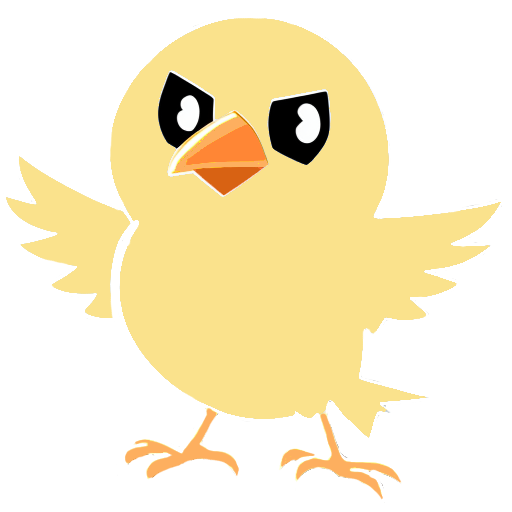
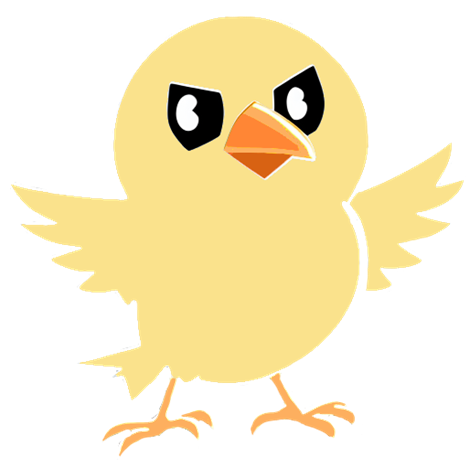
merge
- changed bird header image to be facing right like the other images
- changed width of bird and monkey to be closer to momo size
- adjusted coin locations on level 1
- merged kevin and ruhi changes

diff --git a/momotaro/game_templates/pet_player.py b/momotaro/game_templates/pet_player.py
@@ -68,20 +68,20 @@ class Pet:
         self.right_bird_mvmnt_frames = None
         self.left_bird_mvmnt_frames = None
 
-        self.left_flying = pygame.transform.scale(pygame.image.load("images/player2/flying_left.png").convert_alpha(),(40, 70))
-        self.left_flapping = pygame.transform.scale(pygame.image.load("images/player2/flapping_left.png").convert_alpha(),(40, 70))
+        self.left_flying = pygame.transform.scale(pygame.image.load("images/player2/flying_left.png").convert_alpha(),(45, 70))
+        self.left_flapping = pygame.transform.scale(pygame.image.load("images/player2/flapping_left.png").convert_alpha(),(45, 70))
 
-        self.right_flying = pygame.transform.scale(pygame.image.load("images/player2/flying_right.png").convert_alpha(),(40, 70))
-        self.right_flapping = pygame.transform.scale(pygame.image.load("images/player2/flapping_right.png").convert_alpha(), (40, 70))
+        self.right_flying = pygame.transform.scale(pygame.image.load("images/player2/flying_right.png").convert_alpha(),(45, 70))
+        self.right_flapping = pygame.transform.scale(pygame.image.load("images/player2/flapping_right.png").convert_alpha(), (45, 70))
 
 
         self.right_bird_mvmnt_frames = [
-            pygame.transform.scale(pygame.image.load("images/player2/walking_right_1.png").convert_alpha(), (30, 60)),
-            pygame.transform.scale(pygame.image.load("images/player2/walking_right_2.png").convert_alpha(), (40, 60))]
+            pygame.transform.scale(pygame.image.load("images/player2/walking_right_1.png").convert_alpha(), (35, 60)),
+            pygame.transform.scale(pygame.image.load("images/player2/walking_right_2.png").convert_alpha(), (45, 60))]
 
         self.left_bird_mvmnt_frames = [
-            pygame.transform.scale(pygame.image.load("images/player2/walking_left_1.png").convert_alpha(), (30, 60)),
-            pygame.transform.scale(pygame.image.load("images/player2/walking_left_2.png").convert_alpha(), (35, 60))]
+            pygame.transform.scale(pygame.image.load("images/player2/walking_left_1.png").convert_alpha(), (35, 60)),
+            pygame.transform.scale(pygame.image.load("images/player2/walking_left_2.png").convert_alpha(), (40, 60))]
 
         self.bird_idle_image = self.right_bird_mvmnt_frames[0]
 
@@ -89,7 +89,7 @@ class Pet:
         self.bird_hurt_right_image = pygame.transform.rotate(self.left_bird_mvmnt_frames[0], 45)
 
         self.bird_death_image = pygame.transform.scale(
-            pygame.image.load("images/player2/bird_death.png").convert_alpha(), (50, 60))
+            pygame.image.load("images/player2/bird_death.png").convert_alpha(), (55, 60))
         ##################
 
         # DOG IMAGES -------------------
@@ -134,33 +134,33 @@ class Pet:
 
         # MONKEY IMAGES ----------------------------------
         self.right_monkey_mvmnt_frames = [
-            pygame.transform.scale(pygame.image.load("images/player2/monkey_walk_right_1.png").convert_alpha(), (40, 61)),
-            pygame.transform.scale(pygame.image.load("images/player2/monkey_walk_right_2.png").convert_alpha(), (40, 61))]
+            pygame.transform.scale(pygame.image.load("images/player2/monkey_walk_right_1.png").convert_alpha(), (45, 66)),
+            pygame.transform.scale(pygame.image.load("images/player2/monkey_walk_right_2.png").convert_alpha(), (45, 66))]
 
         self.left_monkey_mvmnt_frames = [
-            pygame.transform.scale(pygame.image.load("images/player2/monkey_walk_left_1.png").convert_alpha(),(40, 61)),
-            pygame.transform.scale(pygame.image.load("images/player2/monkey_walk_left_2.png").convert_alpha(), (40, 61))]
+            pygame.transform.scale(pygame.image.load("images/player2/monkey_walk_left_1.png").convert_alpha(),(45, 66)),
+            pygame.transform.scale(pygame.image.load("images/player2/monkey_walk_left_2.png").convert_alpha(), (45, 66))]
 
         self.monkey_idle_image_left = pygame.transform.scale(
-            pygame.image.load("images/player2/monkey_idle_left.png").convert_alpha(), (40, 61))
+            pygame.image.load("images/player2/monkey_idle_left.png").convert_alpha(), (45, 66))
 
         self.monkey_idle_image_right = pygame.transform.scale(
-            pygame.image.load("images/player2/monkey_idle_right.png").convert_alpha(), (40, 61))
+            pygame.image.load("images/player2/monkey_idle_right.png").convert_alpha(), (45, 66))
 
         self.monkey_death_image = pygame.transform.scale(
-            pygame.image.load("images/player2/monkey_death.png").convert_alpha(), (61, 40))
+            pygame.image.load("images/player2/monkey_death.png").convert_alpha(), (65, 45))
 
         self.monkey_hurt_left_image = pygame.transform.rotate(self.right_monkey_mvmnt_frames[0], 45)
 
         self.monkey_hurt_right_image = pygame.transform.rotate(self.left_monkey_mvmnt_frames[0], 45)
 
         self.right_monkey_throw_frames = [
-            pygame.transform.scale(pygame.image.load("images/player2/monkey_throw_right_1.png").convert_alpha(), (40, 61)),
-            pygame.transform.scale(pygame.image.load("images/player2/monkey_throw_right_2.png").convert_alpha(), (40, 61))]
+            pygame.transform.scale(pygame.image.load("images/player2/monkey_throw_right_1.png").convert_alpha(), (45, 66)),
+            pygame.transform.scale(pygame.image.load("images/player2/monkey_throw_right_2.png").convert_alpha(), (45, 65))]
 
         self.left_monkey_throw_frames = [
-            pygame.transform.scale(pygame.image.load("images/player2/monkey_throw_left_1.png").convert_alpha(), (40, 61)),
-            pygame.transform.scale(pygame.image.load("images/player2/monkey_throw_left_2.png").convert_alpha(), (40, 61))]
+            pygame.transform.scale(pygame.image.load("images/player2/monkey_throw_left_1.png").convert_alpha(), (45, 65)),
+            pygame.transform.scale(pygame.image.load("images/player2/monkey_throw_left_2.png").convert_alpha(), (45, 65))]
         #####################
 
         self.cloud_image = pygame.transform.scale(

diff --git a/momotaro/scenes/levels/level_2.py b/momotaro/scenes/levels/level_2.py
@@ -26,25 +26,37 @@ def create_level(my_toolbox):
     level2.add_platform((300, 1080 - 70), (700, 70), platform_type="water")    # water section 1 (bottom)
     level2.add_platform((1280, 1080 - 70), (750, 70), platform_type="water")   # water section 2 (bottom)
     level2.add_platform((4600, 1080 - 71), (430, 70), platform_type="water")   # water section 3 (bottom)
-    level2.add_platform((2400, 1080 - 71), (1150, 70), platform_type="water")
+    level2.add_platform((2500, 1080 - 71), (1150, 70), platform_type="water")
+
+    level2.add_spikes((2300, 1080 - 70), (150, 100), vase_position=(2800 + 17, 485), duration=300)
+    level2.add_platform((2800, 550), (70, 50), facing_direction="up")
 
     level2.add_platform((350, 340 + 20), (650, 70), platform_type="water")          # water section 1 (top)
     level2.add_platform((1280, 410 + 20), (750, 70), platform_type="water")         # water section 2 (top)
 
     # add moving platforms throughout
     level2.add_moving_platform((400, 940), (300, 50), 4, (600, 940), facing_direction="up")    # first water section
-    level2.add_moving_platform((1330, 900), (200, 50), 5, (1430, 900), facing_direction="up")  # second water section
-    level2.add_moving_platform((1680, 900), (200, 50), 5, (1780, 900), facing_direction="up")  # second water section
+    '''level2.add_moving_platform((1330, 900), (200, 50), 5, (1430, 900), facing_direction="up")  # second water section
+    level2.add_moving_platform((1680, 900), (200, 50), 5, (1780, 900), facing_direction="up") '''
+
+    # second water section
 
     level2.add_moving_platform((400, 320), (200, 50), 4, (750, 320), facing_direction="up")    # first water section (top)
 
     #level2.add_moving_platform((2450, 900), (200, 50), 3, (2900, 545), facing_direction="up")  # before tori gates
     #level2.add_moving_platform((2000, 900), (200, 50), 2, (2000, 545), facing_direction="up")
-    level2.add_moving_platform((2400, 545), (300, 50), 2, (2400, 700), facing_direction="up")
-    level2.add_moving_platform((2850, 500), (300, 50), 2, (2850, 800), facing_direction="up")
-    level2.add_moving_platform((3300, 445), (300, 50), 2, (3300, 900), facing_direction="up")
+    level2.add_moving_platform((2500, 545), (250, 50), 2, (2500, 700), facing_direction="up")
+    level2.add_moving_platform((2900, 500), (250, 50), 2, (2900, 800), facing_direction="up")
+    level2.add_moving_platform((3300, 445), (250, 50), 2, (3300, 900), facing_direction="up")
 
     # add regular platforms
+    level2.add_platform((1450, 480), (100, 400), facing_direction="down") #bird parkour
+    level2.add_platform((1750, 480), (100, 100), facing_direction="down")
+
+    level2.add_platform((1450, 950), (100, 450), facing_direction="up")  # bird parkour
+    level2.add_platform((1750, 650), (100, 850), facing_direction="up")
+
+
     level2.add_platform((70, 340), (280, 140), facing_direction="up")       # first section (top)
     level2.add_platform((350, 410), (370, 70),  facing_direction=None)
     level2.add_platform((720, 410), (280, 210),  facing_direction=None)
@@ -60,13 +72,13 @@ def create_level(my_toolbox):
     #level2.add_platform((4200, 600), (200, 50), facing_direction="up")      # middle with coin
     level2.add_platform((4600, 500), (430, 160), facing_direction="up")     # final chunk with fence
 
-    level2.add_platform((4715, 900), (200, 50), facing_direction="up")      # low platform with final coin
+    level2.add_platform((4750, 900), (200, 50), facing_direction="up")      # low platform with final coin
 
     # add button/gate obstacles
     level2.add_obstacle(600, 580, "button", fence_initial=(1075, 140),  fence_final=(1075, -60), fence_dimensions=(150, 400))     # first top gate
     level2.add_obstacle(1200, 330, "button", fence_initial=(2105, 210), fence_final=(2105, -60), fence_dimensions=(150, 400))     # second top gate
-    level2.add_obstacle(4900, 500, "button", fence_initial=(3775, 200), fence_final=(3775, -60), fence_dimensions=(150, 400))     # third top gate
-    level2.add_obstacle(3950, 1000, "button", fence_initial=(4675, 300), fence_final=(4675, -60), fence_dimensions=(150, 400))    # fourth top gate
+    level2.add_obstacle(4850, 495, "dog_button", fence_initial=(3775, 200), fence_final=(3775, -60), fence_dimensions=(150, 400),dog_y=300)     # third top gate
+    level2.add_obstacle(3950, 1000, "button", fence_initial=(4675, 822), fence_final=(4675, 320), fence_dimensions=(150, 400))    # fourth top gate
     level2.add_obstacle(1210, 1000, "button", fence_initial=(2105, 778), fence_final=(2105, 320), fence_dimensions=(150, 465))    # first bottom gate
     level2.add_obstacle(4100, 1000, "button", fence_initial=(4250, 778), fence_final=(4250, 330), fence_dimensions=(150, 465))    # second bottom gate
 
@@ -76,15 +88,15 @@ def create_level(my_toolbox):
     level2.add_demon([3900, 350], (300, 100))
 
     # add tori gate obstacle
-    level2.add_obstacle(3950, 350, "torigate", gate_num=1)
-    level2.add_obstacle(4100, 350, "torigate", gate_num=2)
+    level2.add_obstacle(3950, 350 - 50, "torigate", gate_num=1)
+    level2.add_obstacle(4100, 350 - 50, "torigate", gate_num=2)
 
     # add coins
-    level2.add_obstacle(3000, 350, "coin")
-    level2.add_obstacle(2550, 400, "coin")
-    level2.add_obstacle(3450, 400, "coin")
+    level2.add_obstacle(2350 - 30, 900, "coin")
+    level2.add_obstacle(4800, 800, "coin")
+    level2.add_obstacle(1930, 300, "coin")
 
     momotaro = momotaro_player.Momotaro([300, 200])
-    pet = pet_player.Pet([200, 500])
+    pet = pet_player.Pet([200, 800])
 
     return level2, momotaro, pet

diff --git a/momotaro/scenes/levels/level_3.py b/momotaro/scenes/levels/level_3.py
@@ -10,17 +10,16 @@ def create_level(my_toolbox):
     level3.add_platform(position=(0, 0), dimensions=(71, 1080), facing_direction="right")        # left wall
     level3.add_platform((5100 - 70, 0), (70, 1080), facing_direction="left")                     # right wall
     level3.add_platform((0, 0), (5100, 140), facing_direction="down")                            # top wall
-    level3.add_platform((0, 1080 - 80), (300, 80))
-    level3.add_platform((500, 1080 - 80), (150, 80))                                            # bottom wall section 1
-    level3.add_platform((850, 1080 - 80), (150, 80))
-    #level3.add_platform((1000, 1080 - 69), (200, 70))                                           # bottom wall section 3
-    level3.add_platform((1200, 1080 - 80), (2500, 80))                                           # bottom wall section 3
-    level3.add_platform((4300, 1080 - 80), (750, 80))                                           # bottom wall section 4
+    level3.add_platform((0, 1000), (300, 85), facing_direction="up", corners=True)
+    level3.add_platform((500, 1000), (150, 85), facing_direction="up", corners=True)                                            # bottom wall section 1
+    level3.add_platform((850, 1000), (150, 85), facing_direction="up", corners=True)
+    level3.add_platform((1200, 1080 - 80), (2500, 85), facing_direction="up", corners=True)                                           # bottom wall section 3
+    level3.add_platform((4300, 1080 - 80), (750, 85), facing_direction="up", corners=True)                                           # bottom wall section 4
     # 3030
 
     # fix the corners
-    level3.add_platform((-10, 70), (70, 70), facing_direction=None)
-    level3.add_platform((5040, 70), (70, 70), facing_direction=None)
+    level3.add_platform((-10, 85), (70, 70), facing_direction=None)
+    level3.add_platform((5040, 85), (70, 70), facing_direction=None)
     level3.add_platform((-10, 1080 - 70), (70, 70), facing_direction=None)
     level3.add_platform((5040, 1080 - 70), (70, 70), facing_direction=None)
 
@@ -87,19 +86,19 @@ def create_level(my_toolbox):
     level3.add_platform((3700, 444), (500, 25), facing_direction=None)
 
     # add button/gate obstacles
-    level3.add_obstacle(600, 1000, "button", fence_initial=(700, 150),  fence_final=(700, 0), fence_dimensions=(100, 300))
-    level3.add_obstacle(1300, 1000, "button", fence_initial=(1150, 600),  fence_final=(1150, 450), fence_dimensions=(100, 300))
-    level3.add_obstacle(950, 1000, "button", fence_initial=(1750, 150),  fence_final=(1750, 0), fence_dimensions=(100, 300))# first top gate
-    level3.add_obstacle(2650, 400, "button", fence_initial=(2800 - 30, 925), fence_final=(2800 - 30, 700),
+    level3.add_obstacle(600, 992, "button", fence_initial=(700, 150),  fence_final=(700, 0), fence_dimensions=(100, 300))
+    level3.add_obstacle(1300, 992, "button", fence_initial=(1150, 600),  fence_final=(1150, 450), fence_dimensions=(100, 300))
+    level3.add_obstacle(950, 992, "button", fence_initial=(1750, 150),  fence_final=(1750, 0), fence_dimensions=(100, 300))# first top gate
+    level3.add_obstacle(2650, 395, "button", fence_initial=(2800 - 30, 925), fence_final=(2800 - 30, 700),
                         fence_dimensions=(70, 300*7/10))
-    level3.add_obstacle((2750 + 500 + 200), 400, "button", fence_initial=(3850, 850), fence_final=(3850, 1000),
+    level3.add_obstacle((2750 + 500 + 200), 395, "button", fence_initial=(3850, 850), fence_final=(3850, 1000),
                         fence_dimensions=(100, 300))
-    level3.add_obstacle(3700 + 700, 400, "button", fence_initial=(4350, 900),
+    level3.add_obstacle(3700 + 700, 395, "button", fence_initial=(4350, 900),
                         fence_final=(4350, 750),
                         fence_dimensions=(100, 300))
         # second bottom gate
 
-    level3.add_spikes((2700, 300), (600, 100), vase_position=(2500, 515), duration=200)
+    level3.add_spikes((2700, 300), (600, 100), vase_position=(2500, 515), duration=500)
 
     level3.add_obstacle(3400, 670, 'dog_button', fence_initial=(3300, 290), fence_final=(3300, 590), fence_dimensions=(100, 300), dog_y=550)
 

diff --git a/momotaro/scenes/levels/level_1.py b/momotaro/scenes/levels/level_1.py
@@ -9,6 +9,7 @@ def create_level(my_toolbox):
     level1.load_stone_imgs()
 
     # add tutorial text
+    level1.add_tutorial_text(550, 200, 0, 900, 450, 1080, (100, 100), "Press ESC to view menu options and controls.")
     level1.add_tutorial_text(550,500,0,900,450,1080,(100,100),"Player 1: Use W, A, and D to move around and jump.", font_size=30)
     level1.add_tutorial_text(580,550,0,900,450,1080,(100,100),"Player 2: Use the arrow keys to move around and jump.", font_size=30)
 
@@ -31,7 +32,7 @@ def create_level(my_toolbox):
     # add platforms
     level1.add_platform((400, 800), (300, 50), facing_direction="up")  # platform 1 for coin 1
     level1.add_platform((900, 690), (300, 50), facing_direction="up")  # platform 2 for coin 1
-    level1.add_obstacle(1080, 600, "coin")  # coin 1
+    level1.add_obstacle(1004, 525, "coin")  # coin 1
 
     # gate leading to after the first coin
     level1.add_obstacle(1265, 1000, 'button', fence_initial=(1458, 780), fence_final=(1458, 540), fence_dimensions=(200, 500))
@@ -90,14 +91,14 @@ def create_level(my_toolbox):
     level1.add_tutorial_text(3600, 200, 2600, 4800, 0,400,(100,100), "Demons will charge after you if you get too close.", font_size=25)
     level1.add_tutorial_text(3600, 250, 2600, 4800, 0,400,(100,100), "Player 1 press and hold R to charge up an attack.", font_size=25)
     level1.add_tutorial_text(3600, 300, 2600, 4800, 0,400,(100,100), "The longer you hold, the stronger and longer your attack will be.", font_size=25)
-    level1.add_obstacle(2460, 280, 'coin')
+    level1.add_obstacle(2460, 235, 'coin')
 
     # tutorial text above button to switch cameras
     level1.add_tutorial_text(2500, 200, 2400, 2900, 0,400,(100,100), "Press C to swap the camera focus between players", font_size=25)
 
     # add third coin and oni behind the rightmost gate
     level1.add_demon([4630, 200], (450, 450))
-    level1.add_obstacle(4900, 280, 'coin')
+    level1.add_obstacle(4900, 235, 'coin')
 
 
     # add end goal torigate

diff --git a/momotaro/drivers/game_manager.py b/momotaro/drivers/game_manager.py
@@ -117,7 +117,7 @@ class GameManager:
 
             # Checking for if the game is over/failed (Momo dead or out of bounds)
             if self.momotaro.health <= 0 or self.momotaro.position[1] > 4000 or self.pet.health <= 0:
-                pygame.mixer.pause()
+                # pygame.mixer.pause()
                 self.lose_sound.play()
 
                 # only momotaro has different death animations, when the bird dies, use momotaro's oni death
@@ -382,8 +382,10 @@ class GameManager:
                     platform.draw_platform(self.image)
                 for platform in self.level.moving_platform_list:
                     platform.draw_platform(self.image)
+                # Draw text
                 for text in self.level.tutorial_text_list:
-                    text.draw(self.image, self.momotaro.position[0])
+                    text.draw(self.image, self.momotaro.position[0], self.momotaro.position[1],
+                              self.pet.position[0], self.pet.position[1])
 
             # Draw demons
                 for demon in self.level.demon_list:

diff --git a/momotaro/game_templates/level.py b/momotaro/game_templates/level.py
@@ -410,7 +410,7 @@ class Header:
         self.player_1_txt = pygame.transform.scale(self.player_1_txt, (200, 40))
         self.player_2_txt = pygame.transform.scale(self.player_2_txt, (200, 40))
         self.momo = pygame.transform.scale(self.momo, (50, 80))
-        self.bird = pygame.transform.scale(self.bird, (50, 80))
+        self.bird = pygame.transform.scale(self.bird, (60, 80))
         self.dog = pygame.transform.scale(self.dog, (60, 80))
         self.monkey = pygame.transform.scale(self.monkey, (60, 80))
 

diff --git a/momotaro/drivers/main.py b/momotaro/drivers/main.py
@@ -5,7 +5,6 @@ import pathlib
 from momotaro.drivers import toolbox
 from momotaro.drivers import game_manager
 from momotaro.scenes import level_select_scene, title_menu_scene, credits_scene
-from momotaro.ui_templates import screen_transition
 
 '''
 Purpose: Main driver/executable for the game. Based on the state passing in by each scene, the game will 
